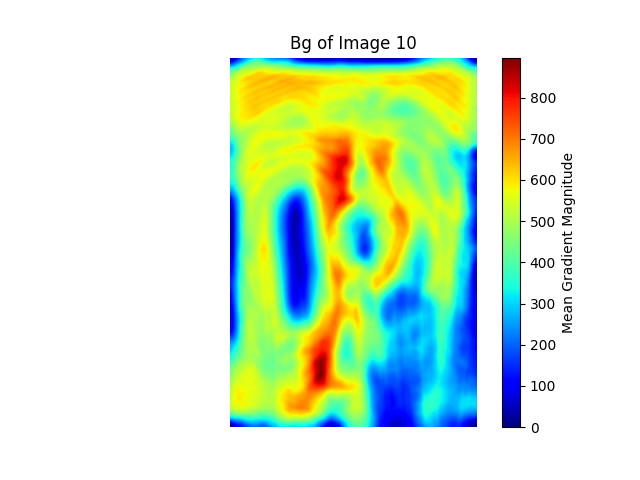
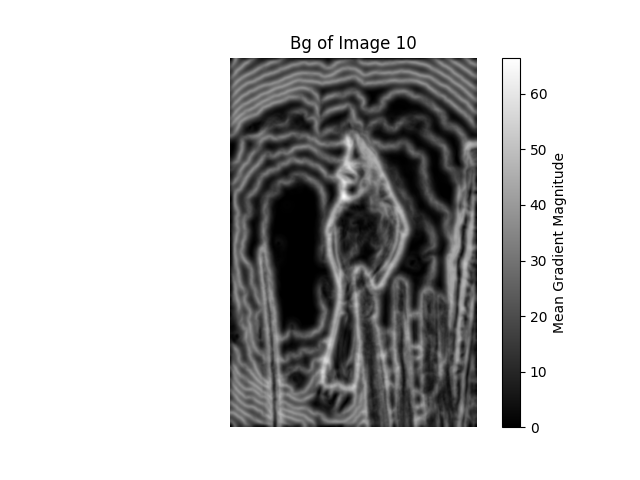
Pb-lite in a spot

diff --git a/jkhall_hw0/Phase1/Code/FilterBanks.py b/jkhall_hw0/Phase1/Code/FilterBanks.py
@@ -8,25 +8,23 @@ SIGMA = math.sqrt(2)
 
 sobelx = np.array([[-1, 0 , 1],
                     [-2, 0, 2],
-                    [-1, 0, 1]])
+                    [-1, 0, 1]], dtype=np.float32)
 
 sobely = np.array([[1, 2 , 1],
                     [0, 0, 0],
-                    [-1, -2, -1]])
-
+                    [-1, -2, -1]], dtype=np.float32)
 img_folder = os.path.abspath(os.path.join(os.path.abspath(__file__), '../../Images'))
 
 np.set_printoptions(precision=2)
 
-def generate_oriented_DoG_filters(size, sigmas, orientations, sigma=SIGMA, display=False):
+def generate_oriented_DoG_filters(size, sigmas, orientations, display=False):
     bank = []
 
     for sigma in sigmas:
         g = cv2.getGaussianKernel(size, sigma)
         g = g @ g.T
-        g /= np.linalg.norm(g)
-        DoGx = cv2.filter2D(g, -1, sobelx)
-        DoGy = cv2.filter2D(g, -1, sobely)
+        DoGx = cv2.filter2D(g.astype(np.float32), cv2.CV_32F, sobelx)
+        DoGy = cv2.filter2D(g.astype(np.float32), cv2.CV_32F, sobely)
         thetas = np.linspace(0,2*np.pi, orientations, False)
         for theta in thetas:
             DoG = math.cos(theta)*DoGx + math.sin(theta)*DoGy
@@ -82,19 +80,21 @@ def LM(size, scale=1, display=False):
         for theta in thetas:
             r = cv2.getRotationMatrix2D((size//2,size//2), np.rad2deg(theta), 1.0)
             g_new = cv2.warpAffine(G, r, G.shape)
-            DoG1x = cv2.filter2D(g_new, -1, sobelx)
-            DoG1y = cv2.filter2D(g_new, -1, sobely)
-            DoG2xx = cv2.filter2D(DoG1x, -1, sobelx)
-            DoG2yy = cv2.filter2D(DoG1y, -1, sobely)
-            DoG2xy = cv2.filter2D(DoG1x, -1, sobely)
+            DoG1x = cv2.filter2D(g_new.astype(np.float32), cv2.CV_32F, sobelx)
+            DoG1y = cv2.filter2D(g_new.astype(np.float32), cv2.CV_32F, sobely)
+            DoG2xx = cv2.filter2D(DoG1x, cv2.CV_32F, sobelx)
+            DoG2yy = cv2.filter2D(DoG1y, cv2.CV_32F, sobely)
+            DoG2xy = cv2.filter2D(DoG1x, cv2.CV_32F, sobely)
             DoG1 = math.cos(theta)*DoG1x + math.sin(theta)*DoG1y
             DoG2 = math.cos(theta)**2*DoG2xx + 2*math.cos(theta)*math.sin(theta)*DoG2xy + math.sin(theta)**2*DoG2yy
             LM_bank.append(DoG1)
             LM_bank.append(DoG2)
 
             if display: 
-                DoG1_bank.append(cv2.normalize(DoG1, normalized, 0, 255, cv2.NORM_MINMAX, cv2.CV_8U))
-                DoG2_bank.append(cv2.normalize(DoG2, normalized, 0, 255, cv2.NORM_MINMAX, cv2.CV_8U))
+                # DoG1_bank.append(cv2.normalize(DoG1, normalized, 0, 255, cv2.NORM_MINMAX, cv2.CV_8U))
+                # DoG2_bank.append(cv2.normalize(DoG2, normalized, 0, 255, cv2.NORM_MINMAX, cv2.CV_8U))
+                DoG1_bank.append(DoG1)
+                DoG2_bank.append(DoG2)
         DoG_bank += DoG1_bank + DoG2_bank
 
     for sigma in np.hstack((sigmas,3*sigmas)):
@@ -108,7 +108,6 @@ def LM(size, scale=1, display=False):
     for sigma in sigmas:
         g = cv2.getGaussianKernel(size, sigma)
         G = g @ g.T
-        G /= np.linalg.norm(G)
         LM_bank.append(G)
         if display: G_bank.append(G)
     
@@ -159,7 +158,7 @@ def generate_half_discs(sizes, orientations, display=False):
         fig, axes = plt.subplots(nrows=2*len(sizes), ncols=orientations)
         fig.suptitle(f"Half Disc Filter Bank")
         for ax, filter in zip(axes.flatten(), discs):
-            resized_filter = cv2.resize(filter, (200,200))
+            resized_filter = cv2.resize(filter, (200,200), interpolation=cv2.INTER_NEAREST)
             ax.imshow(resized_filter, cmap='gray')
             ax.axis('off')
         fig.savefig(img_folder+'/HDMasks.png')

diff --git a/jkhall_hw0/Phase1/Code/Gradients.py b/jkhall_hw0/Phase1/Code/Gradients.py
@@ -13,9 +13,16 @@ def texton_map(img, image_name, filter_bank, n_clusters=64, display=False):
     texton_img = np.zeros((img.shape[0], img.shape[1], len(filter_bank)))
 
     for i,filter in enumerate(filter_bank):
-        filtered_img = cv2.filter2D(gray_img, -1, filter)
+        filtered_img = cv2.filter2D(gray_img, cv2.CV_32F, filter)
+        # if np.min(filtered_img) > 240:
+        #     cv2.imshow('filter', cv2.resize(filter, (200,200)))
+        # cv2.imshow('filter response', filtered_img)
+        # print("Filter: " , i, " Max: ", np.max(filtered_img), " Min: ", np.min(filtered_img))
+        # cv2.waitKey(250)
         texton_img[:,:,i] = filtered_img
     print("starting texton k-means")
+    # mean_map = np.mean(texton_img, axis=2)
+    # cv2.imshow('mean filter response', mean_map.astype(np.uint8))
     _, texton_map, _ = k_means(texton_img.reshape((img.shape[0]*img.shape[1], len(filter_bank))),n_clusters) 
     print("completed texton k-means")
     texton_map = texton_map.reshape(gray_img.shape)
@@ -51,15 +58,17 @@ def compute_gradient(map, n_clusters, image_name, masks, gradient_name, display=
             tmp = (map == j).astype(np.float32)
             mask_left = masks[i]
             mask_right = masks[i+1] 
+            # mask_left /= np.sum(mask_left)
+            # mask_right /= np.sum(mask_right)
 
-            g_i = cv2.filter2D(tmp, -1, mask_left)
-            h_i = cv2.filter2D(tmp, -1, mask_right)
+            g_i = cv2.filter2D(tmp, cv2.CV_32F, mask_left)
+            h_i = cv2.filter2D(tmp, cv2.CV_32F, mask_right)
             chi_sq += 0.5* ((g_i - h_i)**2) / (g_i + h_i + 1e-10) # small constant to avoid division by 0
         full_gradient[:,:,i//2] = chi_sq
     gradient = np.mean(full_gradient, axis=2)
 
     if display:
-        im = plt.imshow(gradient,cmap='jet')
+        im = plt.imshow(gradient,cmap='gray')
         plt.colorbar(im, label="Mean Gradient Magnitude")
         plt.title(f"{gradient_name} of Image {image_name}")
         plt.axis('off')
@@ -68,15 +77,21 @@ def compute_gradient(map, n_clusters, image_name, masks, gradient_name, display=
 
     return gradient
 
-def compute_pb_lite(Tg, Bg, Cg, sobel, canny, w_sobel, w_canny, img_name, display=False):
+def compute_pb_lite(Tg, Bg, Cg, sobel, canny, w_sobel, w_canny, threshold, img_name, display=False):
     feature_weight = (Tg+Bg+Cg)/3
+    feature_weight /= np.max(feature_weight)
+    
     blank = np.zeros_like(feature_weight)
     # feature_weight = cv2.normalize(feature_weight, blank, 0, 255, cv2.NORM_MINMAX)
     pb_lite = feature_weight*(w_sobel*sobel + w_canny*canny)
-    pb_lite = cv2.inRange(cv2.normalize(pb_lite, blank, 0, 255, cv2.NORM_MINMAX).astype(np.uint8), 1, 255)
+    # pb_lite = w_sobel*sobel + w_canny*canny
+    # pb_lite = cv2.inRange(cv2.normalize(pb_lite, blank, 0, 255, cv2.NORM_MINMAX).astype(np.uint8), threshold, 255)
     if display:
+        cv2.imshow('feature weight', feature_weight)
+        cv2.waitKey(1)
         im = plt.imshow(pb_lite,cmap='gray')
         # plt.colorbar(im, label="Mean Gradient Magnitude")
+        plt.axis('off')
         plt.title(f"Pb-lite of Image {img_name}")
         plt.savefig(img_folder+"/PbLite_"+img_name+".png")
         plt.show()

diff --git a/jkhall_hw0/Phase1/Code/Wrapper.py b/jkhall_hw0/Phase1/Code/Wrapper.py
@@ -33,7 +33,7 @@ def main():
     Display all the filters in this filter bank and save image as DoG.png,
     use command "cv2.imwrite(...)"
     """
-    DoG_bank = generate_oriented_DoG_filters(49, [np.sqrt(2), 2], 16, 1, display=False)
+    DoG_bank = generate_oriented_DoG_filters(15, [np.sqrt(2), 2], 16, display=False)
 
     """
     Generate Leung-Malik Filter Bank: (LM)
@@ -48,7 +48,7 @@ def main():
     Display all the filters in this filter bank and save image as Gabor.png,
     use command "cv2.imwrite(...)"
     """
-    Gabor_bank = generate_gabor_filters(49, [5,10,20], [5,10,20], [0.75, 1, 1.25], 8, display=False)
+    Gabor_bank = generate_gabor_filters(15, [1.75,4], [2,4], [0.9, 1.1], 8, display=False)
 
 
     """
@@ -56,7 +56,7 @@ def main():
     Display all the Half-disk masks and save image as HDMasks.png,
     use command "cv2.imwrite(...)"
     """
-    half_discs = generate_half_discs([25,49,99],8, display=False)
+    half_discs = generate_half_discs([9,15,25],8, display=False)
 
 
     """
@@ -74,7 +74,7 @@ def main():
     canny_dir = os.path.join(BSDS500_dir, 'CannyBaseline')
     images = glob.glob(img_dir+'/*.jpg')
     filter_bank = DoG_bank+LM_bank+Gabor_bank
-    t_clusters = 56
+    t_clusters = 64
     b_c_clusters = 16
     for img_path in images:
         img = cv2.imread(img_path, cv2.IMREAD_COLOR)
@@ -139,7 +139,7 @@ def main():
         Display PbLite and save image as PbLite_ImageName.png
         use command "cv2.imwrite(...)"
         """
-        pb_lite = compute_pb_lite(Tg, Bg, Cg, sobel_baseline, canny_baseline, 0.65, 0.35, image_name, display=True)
+        pb_lite = compute_pb_lite(Tg, Bg, Cg, sobel_baseline, canny_baseline, 0.5, 0.5, 5, image_name, display=True)
     
 if __name__ == '__main__':
     main()
